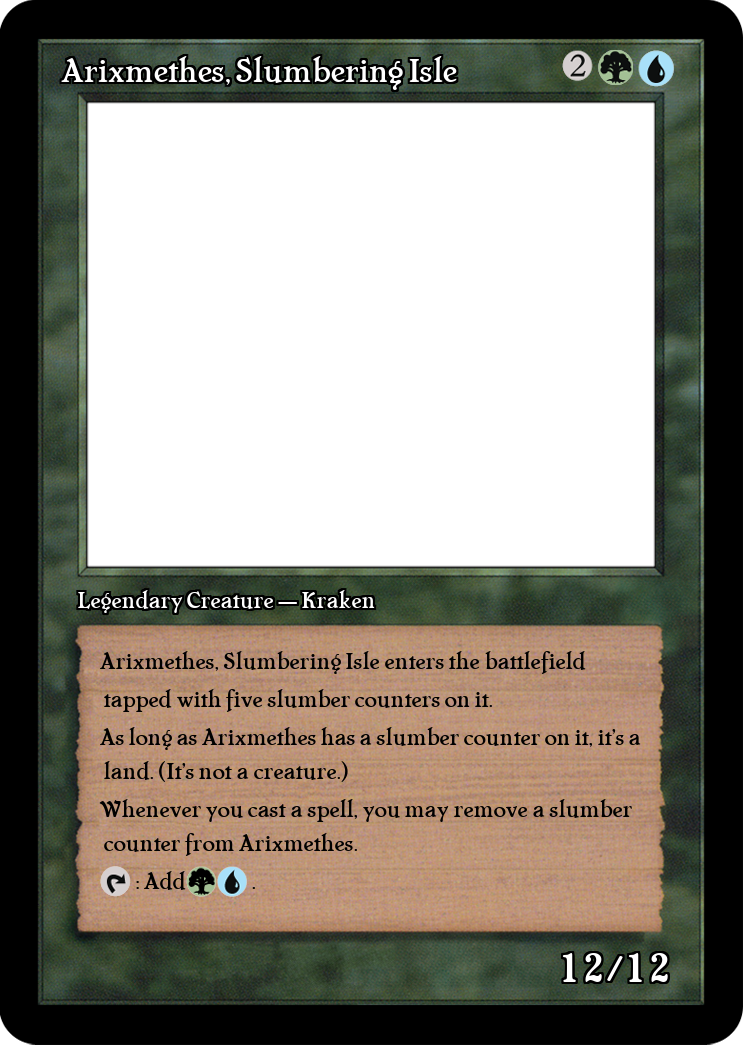
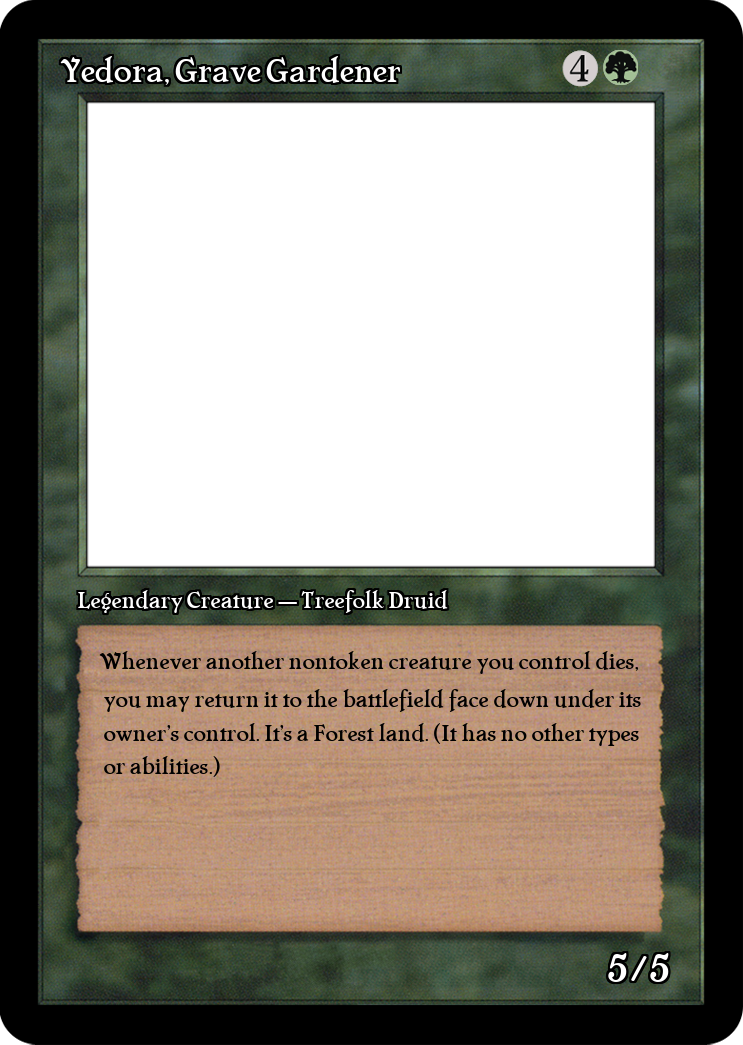
tst

diff --git a/script.py b/script.py
@@ -126,7 +126,7 @@ def create_card(card):
     template.save(card["output_path"], format='PNG')
 
 if __name__ == "__main__":
-    card_api_url = "https://api.scryfall.com/cards/mul/32"
+    card_api_url = "https://api.scryfall.com/cards/mul/30"
     card_api_data = fetch_card_data(card_api_url)
 
     if card_api_data:
